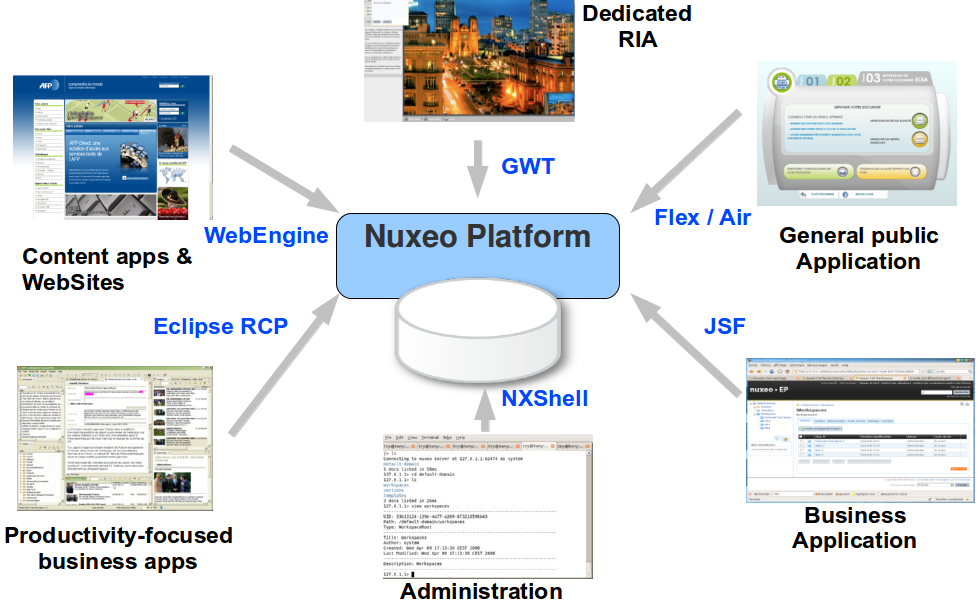
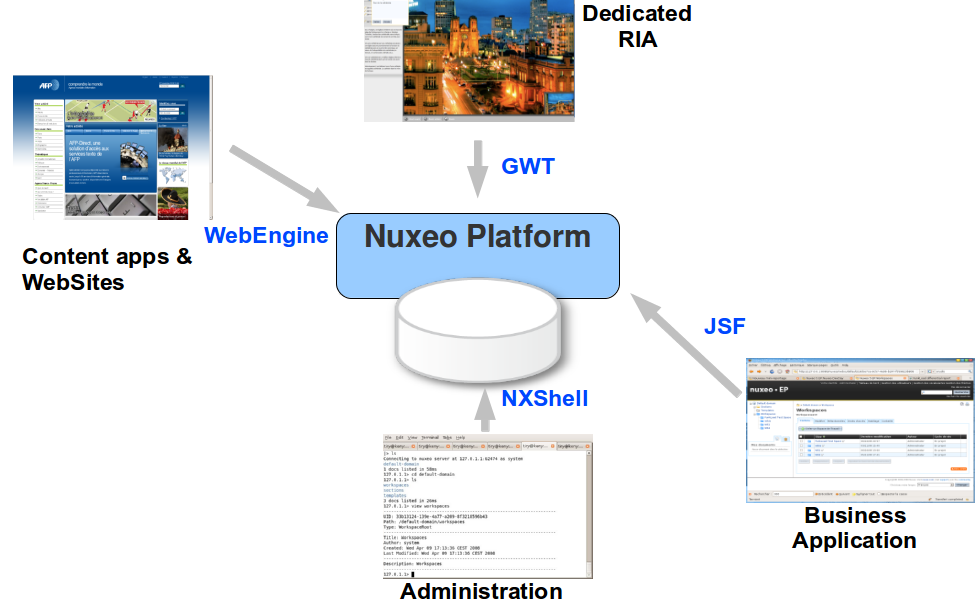
Updated technical overview order, removed duplicate information, added drawings to make things clearer

diff --git a/slides/sysadmin-training/1.2_Technical_overview.html b/slides/sysadmin-training/1.2_Technical_overview.html
@@ -53,6 +53,7 @@
 <section class="slide" id="nuxeo-platform-core-technologies">
 ### Nuxeo – The Platform
 #### Standard technologies
+- <strong>100% Java based</strong>
 - <strong>Based on Java standards</strong>: Java, OSGi, JTA, JAAS, JMS, EJB3, JAX-RS, JAX-WS, CMIS, …
 - <strong>Uses many open source frameworks / libraries</strong>: JBoss Seam / Hibernate / Apache commons
 - Can run in any Servlet container, Java EE Application server, bare JVM or OSGI container, typically: Tomcat, JBoss, Jetty
@@ -60,22 +61,9 @@
 #### Easy to customize, extend and plug
 - No need to rewrite the source code
 - Offers content oriented APIs
+- Ability to deploy and integrate in complex environments
 </section>
 
-<section class="slide" id="tech-core">
-###Core Technologies
-- 100% Java based
-- Can run as POJO or JEE components (Bare JVM, Servlet container or JEE server)
-- OSGi-based Bundle and Component system
-- Integrate world-class Open Source components (JBoss Seam, JBPM, Apache Shindig, Jena RDF, …)
-- Advanced Extension technology offering a highly dynamic plugin model
-- Extensibility & Modularity at heart
-  - at all levels
-  - loose coupling for building large systems
-  - configure, extend, integrate, … don't hack around !
-- Agility to deploy and integrate in complex environments
-  - Highly modular & adaptable
-</section>
 <section class="slide" id="tech-bundles">
 ###Bundles
 - 1 bundle = 1 Nuxeo plugin/addon = 1 JAR
@@ -84,6 +72,7 @@
 - Loaded by Nuxeo Runtime
 - More than 220 bundles in Nuxeo CAP
 </section>
+
 <section class="slide" id="tech-ext1">
 ###Extension Points
 #### What are they used for?
@@ -100,43 +89,30 @@
 - Allow the use of Nuxeo Studio!
 - <strong>One model for the whole platform</strong>
 </section>
+
 <section class="slide" id="tech-ext2">
 ###Extension Points
-<img src="../img/tech/xp.png" />
+#### Native Functionalities
+<img src="img/technical-intro/xp-mechanism-1.png" />
 </section>
+
 <section class="slide" id="tech-ext3">
 ###Extension Points
-<img src="../img/tech/xp2.png" />
+#### Extending the Nuxeo Platform
+<img src="img/technical-intro/xp-mechanism-2.png" />
 </section>
+
 <section class="slide" id="tech-custo1">
 ###Customization possibilities
 ####Nuxeo EP is easily configurable
 - Almost all services are configurable 
-- Actual UI (DM, DAM) is also very modular
+- Actual UI is also very modular
 
-####Clean customizations that can be upgraded
-
-####Use Nuxeo Studio 
+####Clean customizations that can be upgraded:
+####use Nuxeo Studio 
 - to save time in your implementation projects
 - to make customization easier
 - to do quick prototyping
-</section>
-<section class="slide" id="tech-custo2">
-###Customization Example
-Customize the page layout, define the style, set custom tabs, views, content views, buttons, ...
-<img src="../img/tech/custo-parts.png" />
-But also doc types, forms, life-cycles, workflows, policy, ...
-</section>
-<section class="slide" id="tech-custo3">
-###Easy, Elegant Integration Model
-####Thanks to this integration model
-- There is no need to touch Nuxeo's source code
-- Quick and efficient implementation of business requirements
-- Clean and sustainable technical integration in the SI
-
-####We think it matters 
-- A lot of external applications may need to produce or consume content from the ECM repository
-- ECM repositories usually needs to be integrated in the SI environment (Security, Audit, Monitoring, ...)
 </section>
 
 <section class="slide" id="tech-studio1">
@@ -151,11 +127,19 @@ But also doc types, forms, life-cycles, workflows, policy, ...
 - save time, money 
 - <strong>ensure long-term maintenance of applications</strong>
 </section>
+
 <section class="slide" id="tech-studio2">
 ###Nuxeo Studio Screenshots
 <img class="float-left" src="../img/tech/studio3.png" />
 <img src="../img/tech/studio1.png" />
 <img src="../img/tech/studio2.png" />
+</section>
+
+<section class="slide" id="tech-custo2">
+###Customization Example
+Customize the page layout, define the style, set custom tabs, views, content views, buttons, ...
+<img src="../img/tech/custo-parts.png" />
+But also doc types, forms, life-cycles, workflows, policy, ...
 </section>
 
 <section class="slide" id="tech-core1">
@@ -209,6 +193,7 @@ Facets can be associated with schema or Business Object adapter
 ####Transaction management
 - Exposes JCA connector 
 - Support for operations and manual tx management
+
 ####Pluggable event system
 
 ####Efficient storage
